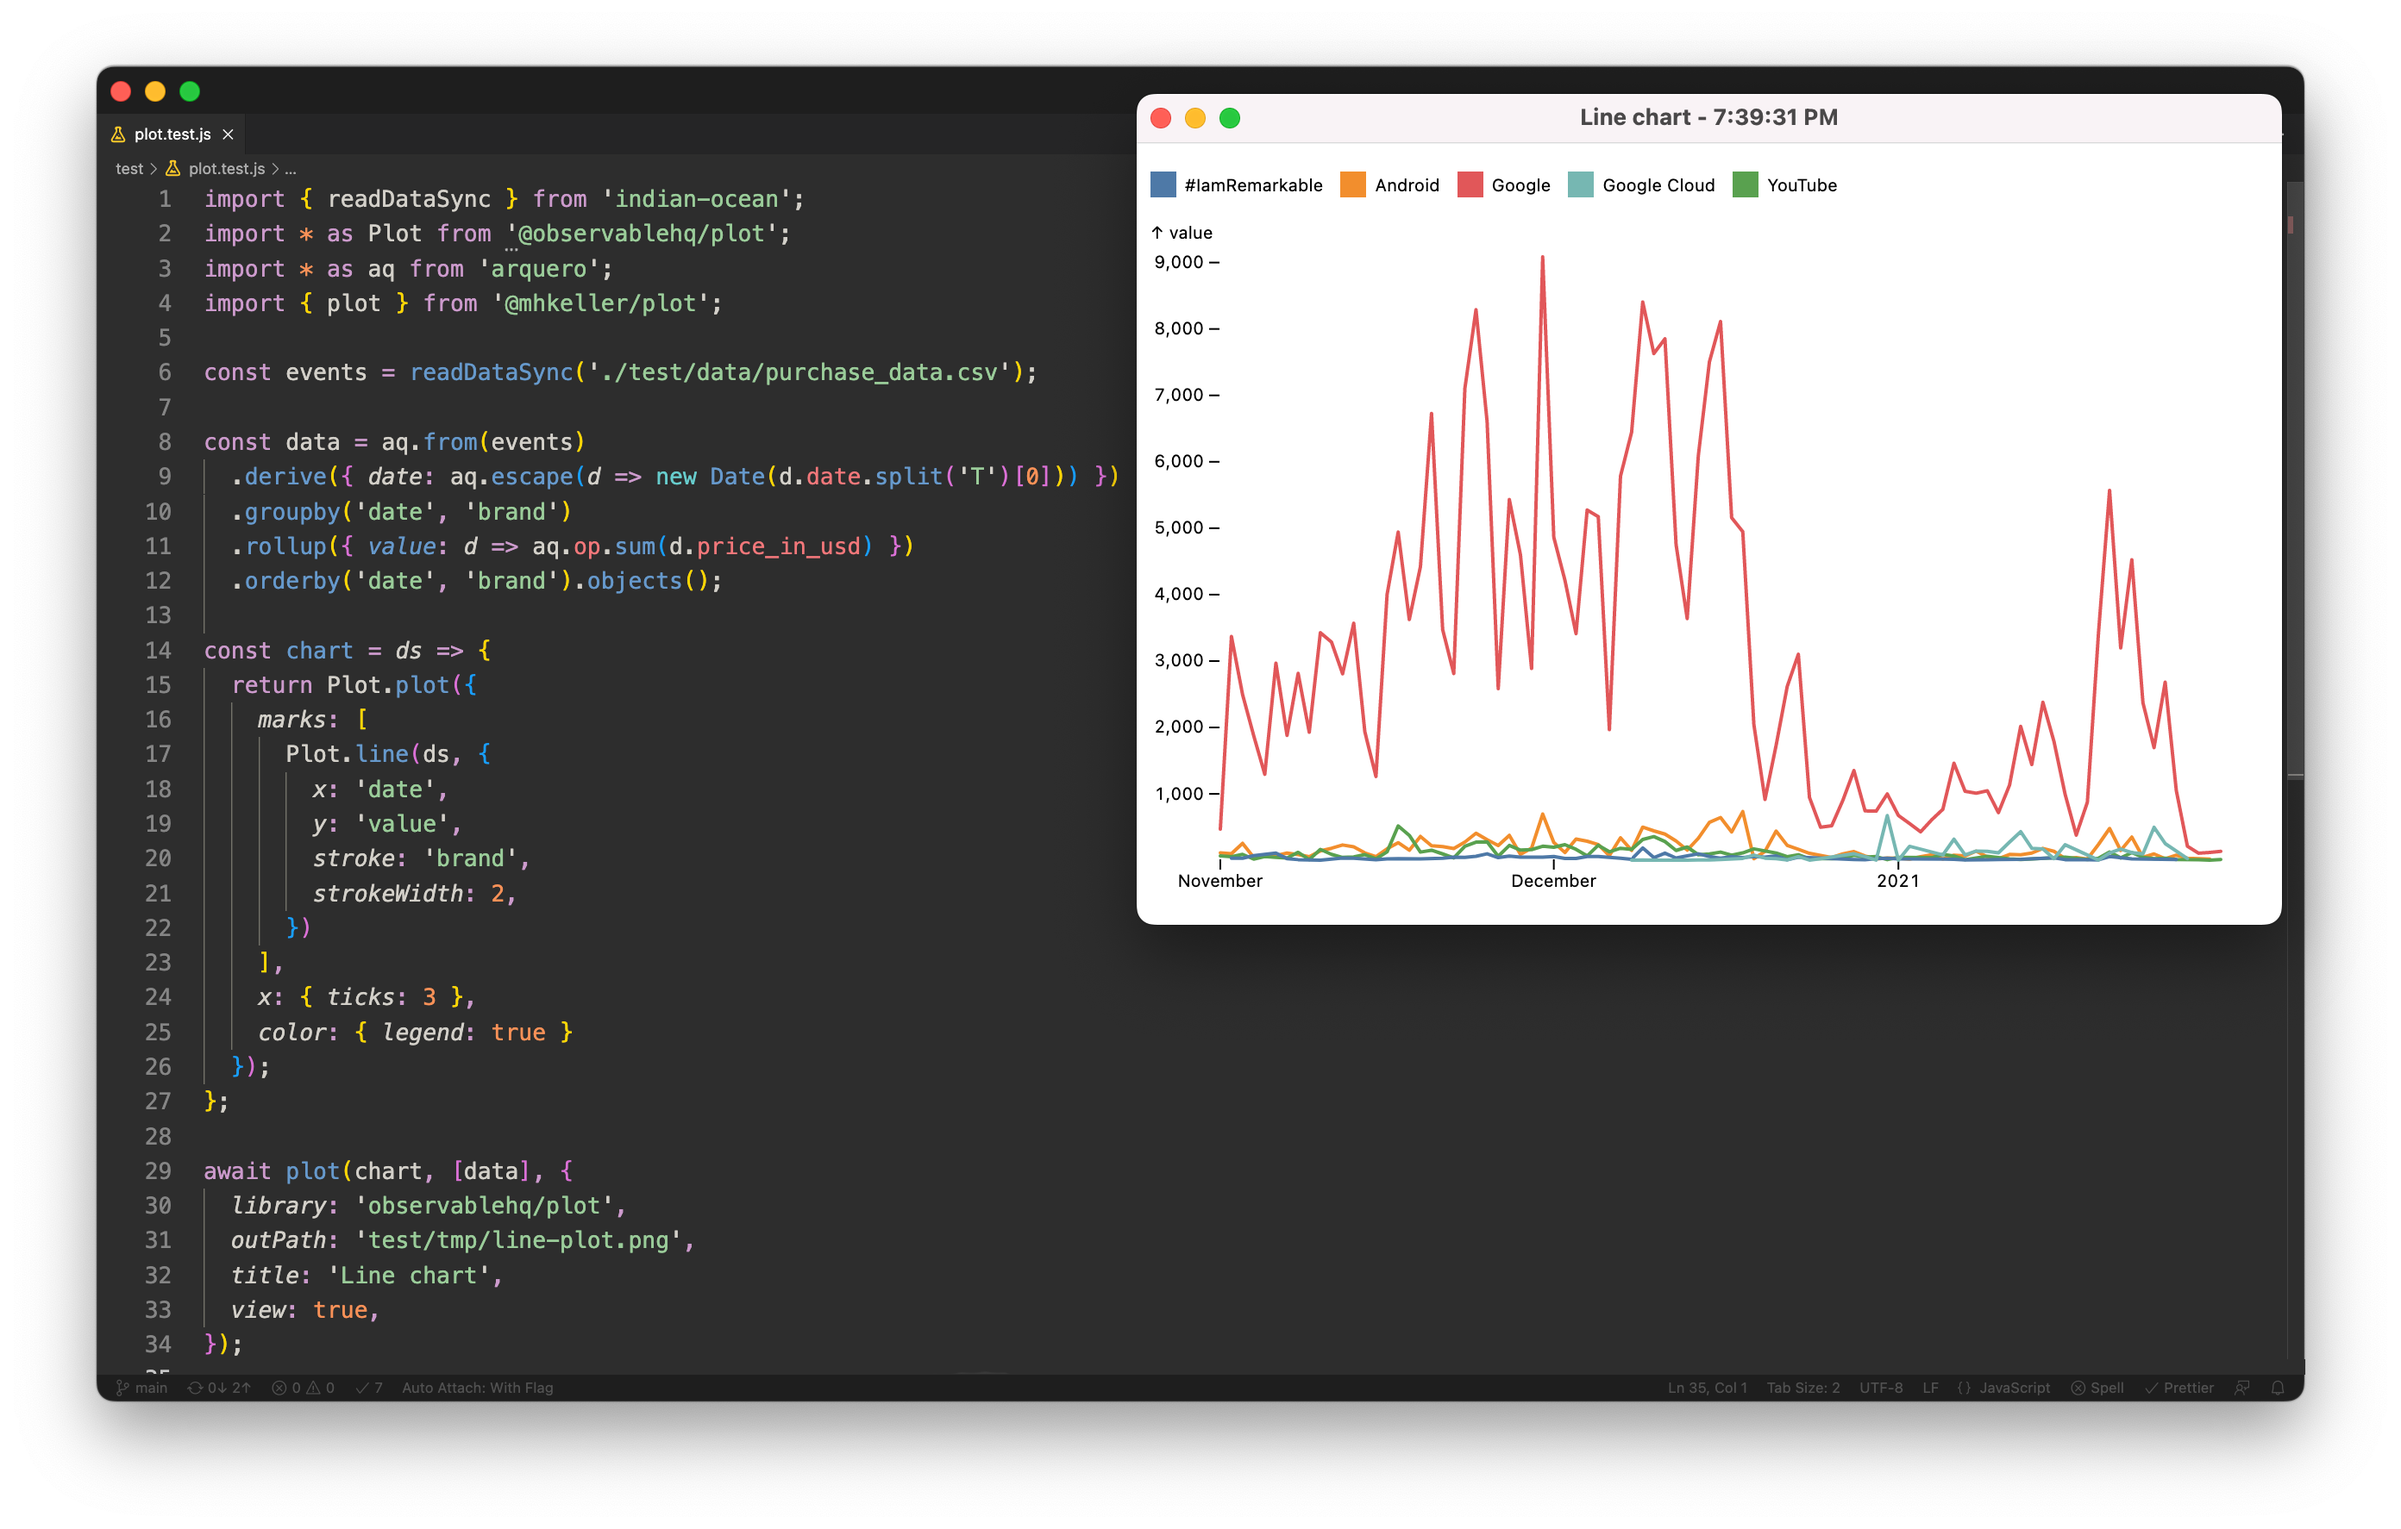
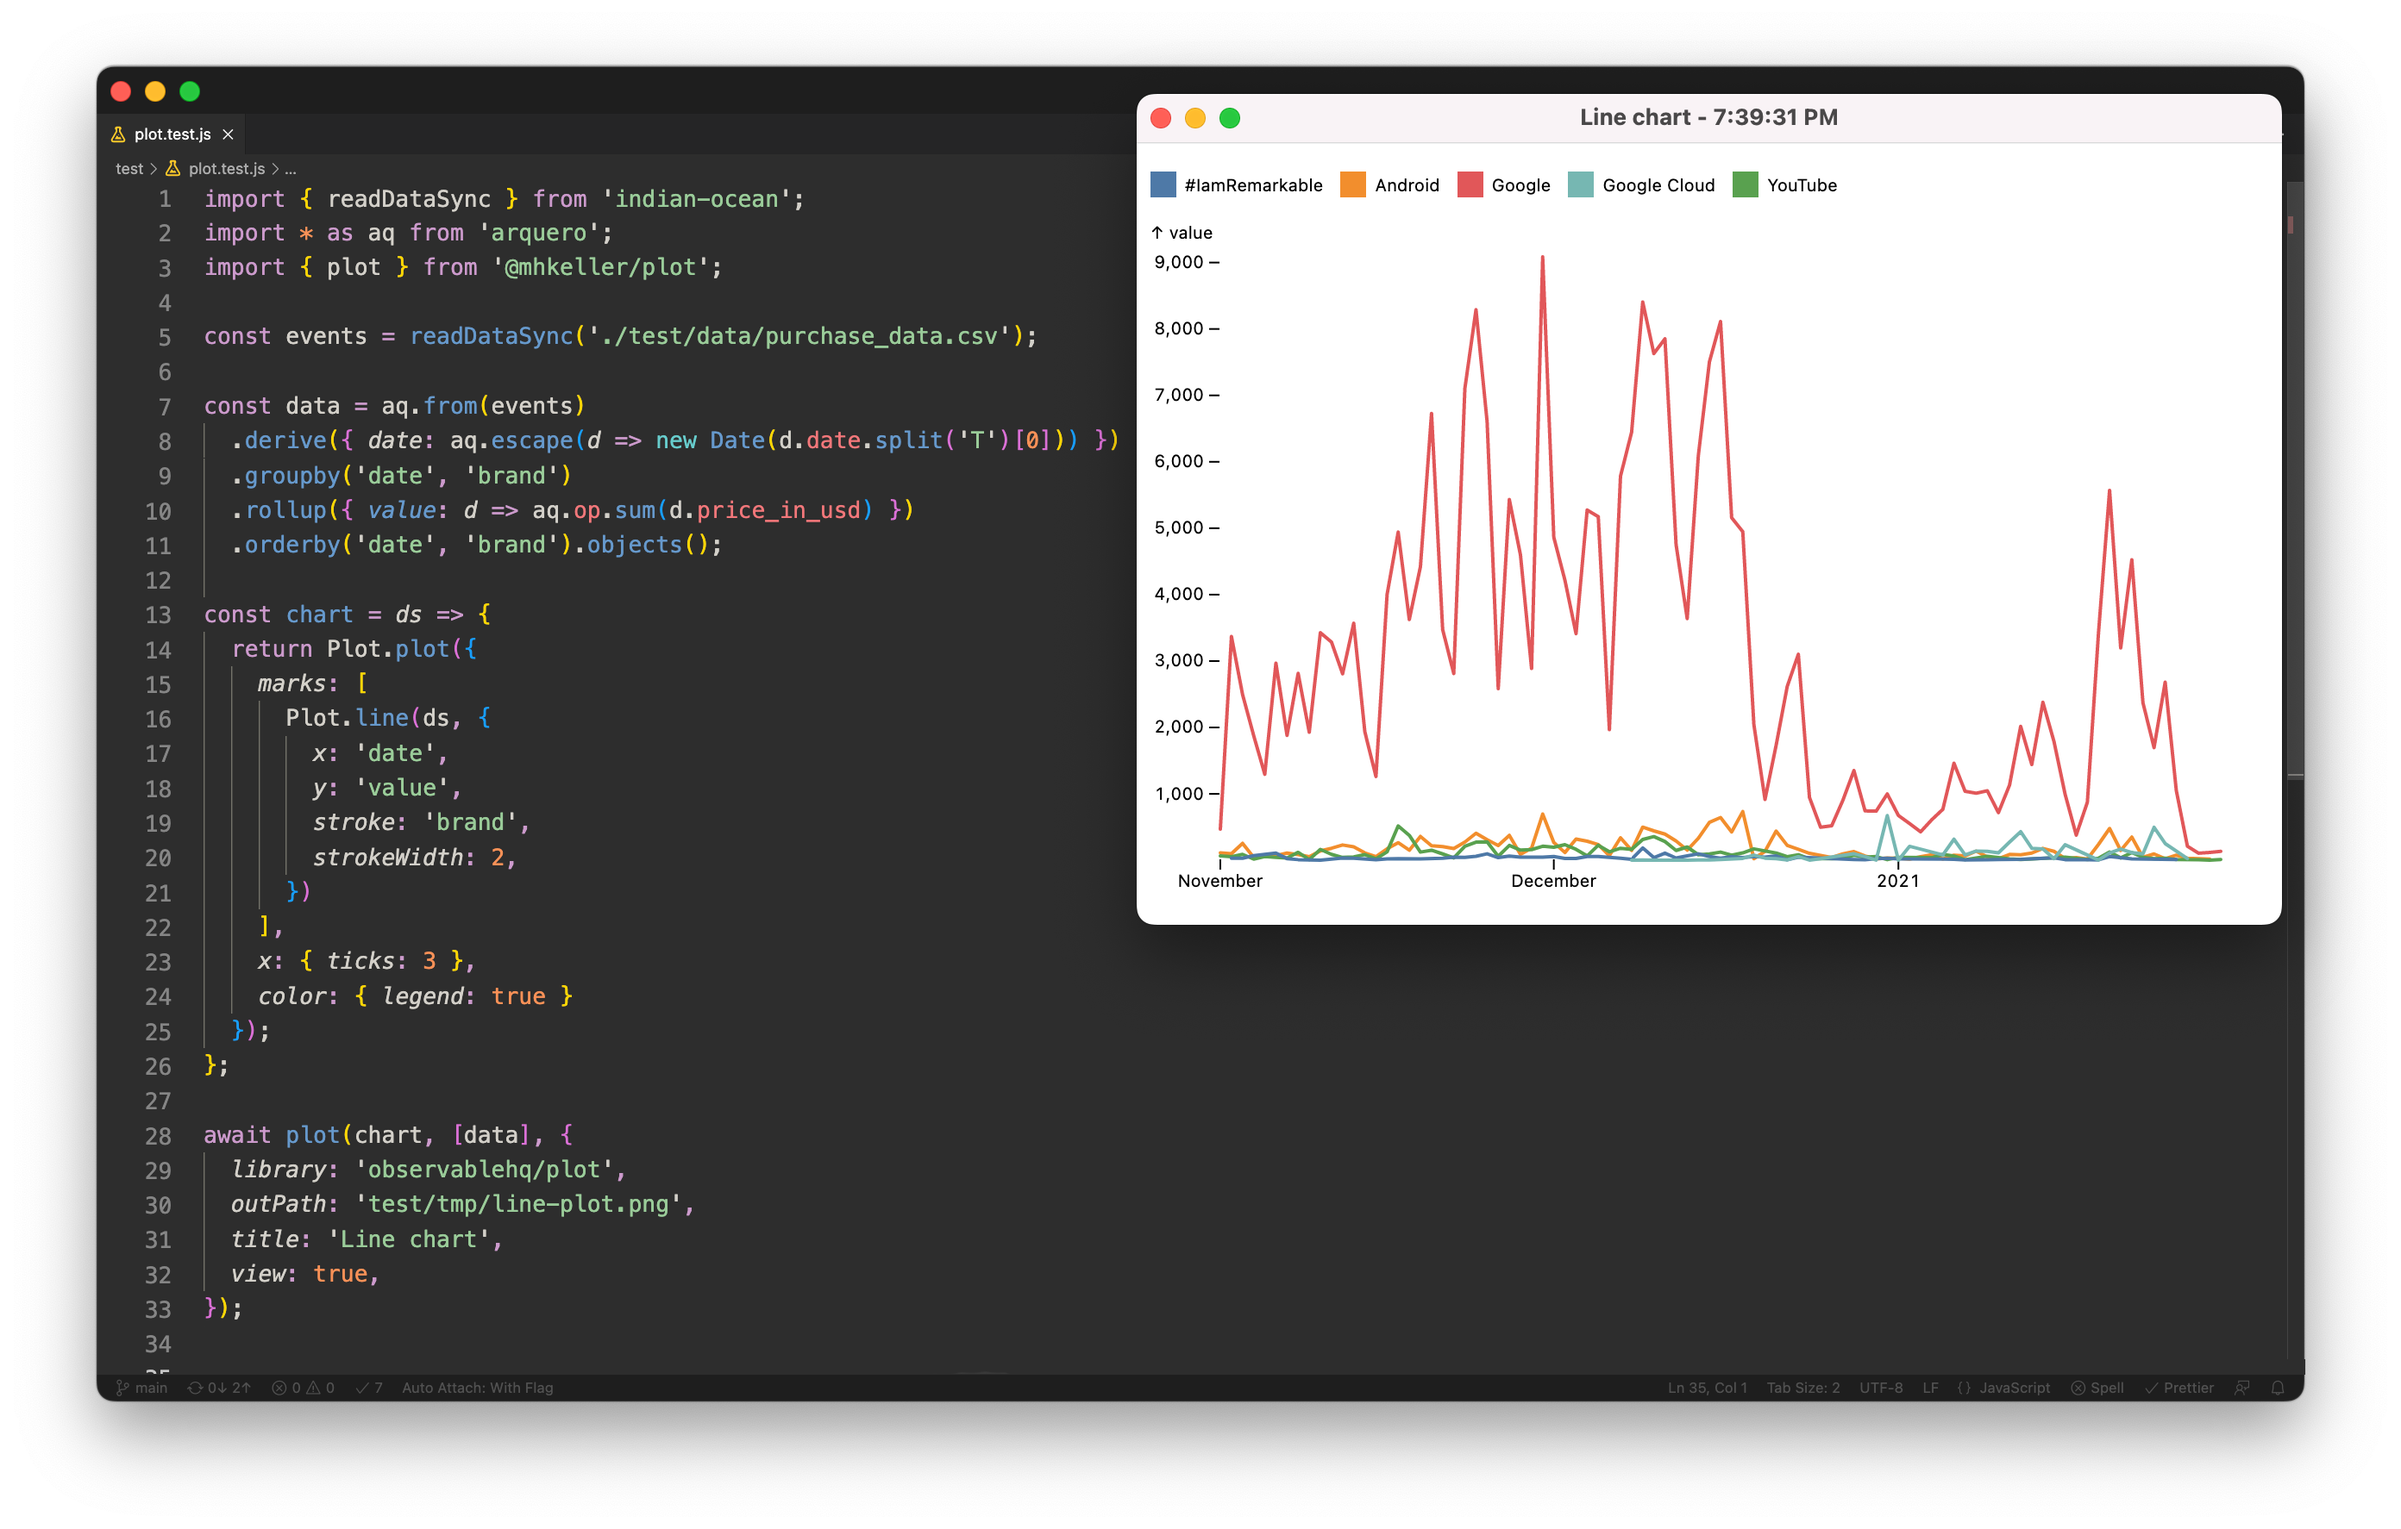
update images

Changed region(s): [[0.0938, 0.124, 0.4688, 0.5891], [0.0938, 0.7441, 0.2812, 0.8681], [0.0938, 0.6201, 0.25, 0.6821]]

diff --git a/test/plot.test.js b/test/plot.test.js
@@ -1,7 +1,6 @@
+/* eslint-disable no-undef */
 import { readDataSync } from 'indian-ocean';
-import * as Plot from '@observablehq/plot';
 import * as aq from 'arquero';
-
 import plot from '../src/plot.js';
 
 const events = readDataSync('./test/data/purchase_data.csv');
